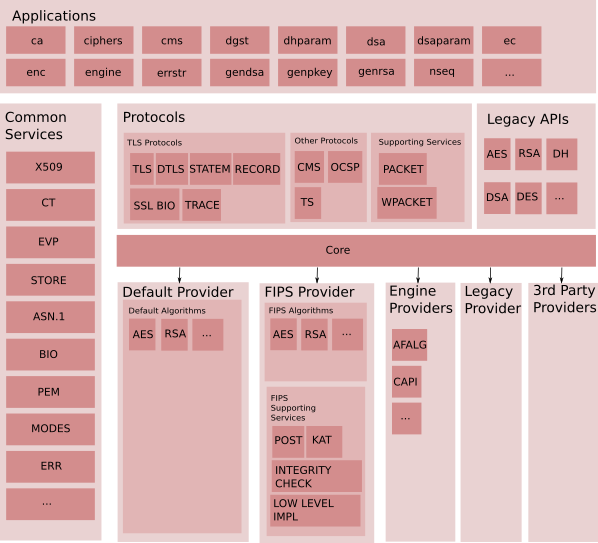
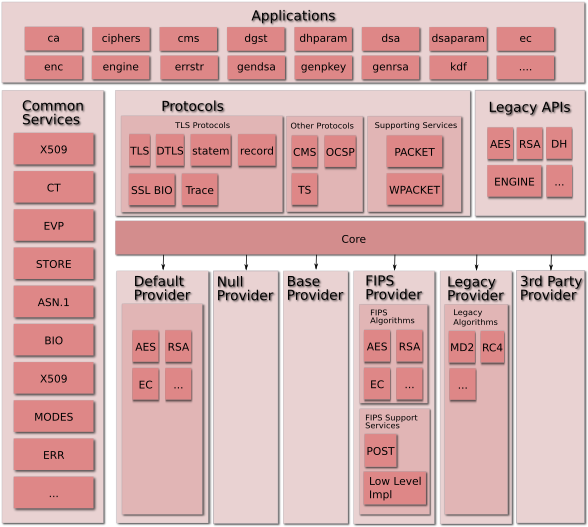
Update pink nirvana and related documentation.
I have seen multiple instances of references to the design document,
and in a few cases copying of the pink nirvana diagram - so it was time
to update it to match what we currently have.
Also changed text related to the engine provider, since that was
completely misleading.

(Merged from https://github.com/openssl/web/pull/380)

diff --git a/docs/OpenSSL300Design.md b/docs/OpenSSL300Design.md
@@ -36,6 +36,9 @@ OpenSSL 3.0 will support an application having TLS connections that
 are in FIPS mode (using the OpenSSL FIPS Cryptographic Module 3.0) and
 TLS connections that are in non-FIPS mode simultaneously.
 
+For more up to date information related to 3.0 please follow the links
+at [openssl.org/docs] (https://www.openssl.org/docs)
+
 ## Terms Used in This Document {#terms-used-in-this-document}
 
 The following terms, in alphabetical order,  are used in this
@@ -137,10 +140,7 @@ The architecture shall have the following features:
         libcrypto)
     b.  Legacy, with implementations of older algorithms (e.g, DES,
         MDC2, MD2, Blowfish, CAST)
-    c.  Engines, which include a compatibility layer between engines
-        designed for older versions of OpenSSL, and the new Provider
-        based approach.
-    d.  FIPS, which implements the OpenSSL FIPS Cryptographic Module
+    c.  FIPS, which implements the OpenSSL FIPS Cryptographic Module
         3.0; this can be loaded dynamically at runtime.
 *   The Core enables access to the operations offered by providers to
     applications (and other providers). The Core is the mechanism via
@@ -201,20 +201,24 @@ here are as follows:
 *   FIPS Provider: Implements a set of algorithms that are FIPS
     validated and are made available via the Core. This includes the
     following supporting services:
-    *   POST: Power On Self Test
-    *   KAT: Known Answer Tests
-    *   Integrity Check
+    *   POST: Power On Self Test that perform:
+        *   KAT: Known Answer Tests
+        *   Integrity Check
     *   Low Level Implementations: This is the set of components that
         actually implement the cryptographic primitives (to meet the
         FIPS-mandated self-contained requirement).
-*   Engines Provider: A shim that allows existing engines to work
-    when called via the Core.
 *   Legacy Provider: Provides implementations of older algorithms that
     will be exposed via EVP-level APIs.
 *   3rd Party Providers: Eventually, third-parties may provide their
     own providers. A third-party provider, like any other provider,
     implements a set of algorithms that will be accessible to
     applications and other providers via the Core.
+*   Null Provider: A provider that does nothing. This can be useful
+    for testing that the correct library context is used.
+*   Base Provider: A provider for serialization of keys. The FIPS
+    provider requires this since it does not contain methods to
+    load keys. The Base provider is also embedded in the default
+    provider.
 
 ### Packaging View {#package-view}
 
@@ -268,12 +272,17 @@ The physical packages new to this release are:
 *   Legacy module. This contains implementations of legacy
     algorithms.
 
-Engines will be built with a provider shim, to allow them to work as
-usual for cases when an ENGINE pointer is passed to some functions,
-and as providers when acting as default implementations. Engines
-compiled for pre-3.0.0 OpenSSL will need to be recompiled to work with
-OpenSSL 3.0.0. Details in
-[The ENGINE API](#the-engine-api) further down.
+It was originally intended that Engines would be built with a
+provider shim, to allow them to work as usual for cases when an
+ENGINE pointer is passed to some functions, and as providers when
+acting as default implementations.
+Investigations during development, showed that this approach had
+problematic edge cases. The workaround for now is that there are two
+code paths currently when EVP calls are made. For engines support,
+the legacy code is used for 'legacy keys'. The long term plan is
+to remove engines and the legacy code paths from the code base.
+Anything written as an engine will need to be rewritten as a
+provider once engines are removed.
 
 ## Core and Provider Design {#core-and-provider-design}
 
